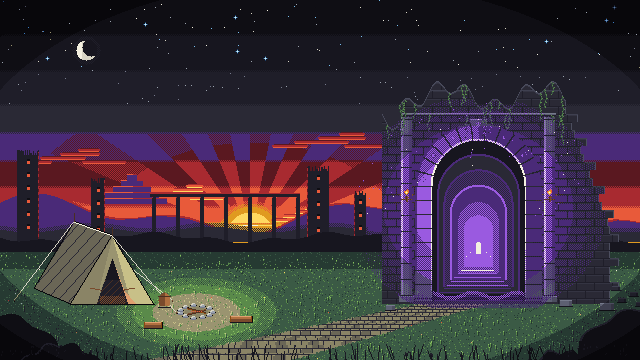
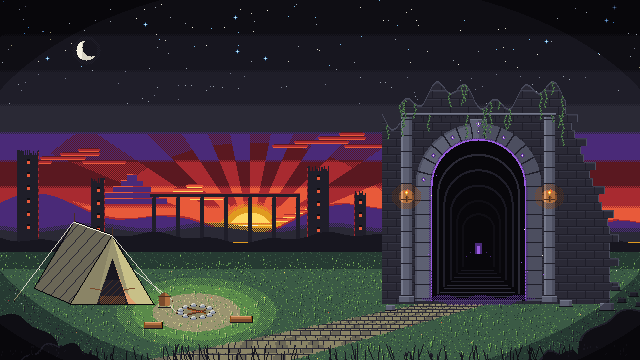
Art: menu gate back to the dark tunnel with a light purple glow
The author preferred the first gate: the tunnel stays dark with its faint doorway;
the arch's inner rim glows purple, the runes are brighter, a thin mist lies over the
threshold. The wall still breaks off right of the gate.

Claude-Session: https://claude.ai/code/session_01STxjqiQueofrzjBc15GUz1

Changed region(s): [[0.5938, 0.275, 0.9375, 0.8556]]

diff --git a/tools/art/make_menu_background.py b/tools/art/make_menu_background.py
@@ -7,10 +7,9 @@
 - the ruins gate on the right: a ruined wall with ivy that crumbles away right of the
   gate (the sunset shows behind it), pilasters with burning torches, an arch whose
   wedge stones carry purple runes (like the logo), and inside a tunnel going down:
-  receding inner arches and steps towards a bright purple doorway far below. A strong
-  purple light pours out of it: rays in the tunnel, the arches' edges lit, the stone,
-  the wall and the ground in front tinted in fading rings, mist over the threshold and
-  sparks rising around the gate;
+  receding inner arches and steps into darkness towards a faint purple doorway far
+  below; a light purple glow: the arch's inner rim lit, the runes bright, a thin mist
+  over the threshold and a few sparks;
 - the camp on the left: an A-frame canvas tent in perspective (front flaps tied back,
   side roof, ridge pole, guy ropes and pegs), a backpack, log seats, the fire pit with
   stones and logs and its warm light on the grass;
@@ -451,77 +450,46 @@ def torch(cv, x, y):
 
 # --- the purple light of the gate -------------------------------------------------------
 
-# Colours under purple light, strong and soft. Stone and brick keep their light / dark
-# order (mortar stays dark), grass and path take a violet cast.
-STRONG = {"m": "U", "T": "U", "s": "H", "e": "h", "F": "h", "f": "h", "5": "h", "g": "5", "k": "g",
-          "N": "h", "n": "5", "G": "H", "V": "H", "w": "H", "v": "h", "X": "H", "x": "U", "W": "U"}
-SOFT = {"m": "H", "T": "H", "s": "h", "e": "h", "F": "5", "f": "5", "5": "h", "g": "g",
-        "N": "h", "n": "5", "G": "h", "V": "H", "w": "h", "v": "5", "X": "h", "x": "H", "W": "H"}
-
-
 def purple_glow(cv):
+    """A light glow (the author preferred the dark tunnel): the arch's inner rim lit
+    purple, the runes brighter, a little mist over the threshold and a few sparks; the
+    tunnel stays dark with its faint doorway, the wall and the ground are not tinted."""
     rnd = random.Random(13)
-    cx, cy = ARCH_CX, ARCH_SPRING + 22
-    # 1. inside the tunnel: the light comes from the far end, so each receding arch
-    #    is brighter than the one in front of it; arch edges and step tops catch it
-    vx, vy = DOOR
-    fills = ("k", "5", "h", "h", "H", "H")
-    edges = ("h", "h", "H", "H", "U", "U")
-    for y in range(ARCH_SPRING - ARCH_R, ARCH_FLOOR + 1):
-        for x in range(ARCH_CX - ARCH_R, ARCH_CX + ARCH_R + 1):
-            if not in_arch(x, y, ARCH_R):
+    R1 = ARCH_R + ARCH_T
+    # the inner rim of the arch: a bright line, a softer one behind it
+    for y in range(ARCH_SPRING - R1, ARCH_FLOOR + 1):
+        for x in range(ARCH_CX - R1, ARCH_CX + R1 + 1):
+            if in_arch(x, y, ARCH_R) or not in_arch(x, y, R1):
                 continue
-            level = 0
-            for sc in TUNNEL:
-                r = ARCH_R * sc
-                if in_arch(x, y, r, vy + (ARCH_SPRING - vy) * sc, vx, vy + (ARCH_FLOOR - vy) * sc):
-                    level += 1
-            k = key_at(cv, x, y)
-            if k in ("o", "d"):
-                fill = fills[level]
-                if level in (2, 4) and (x + y) % 2 == 0:
-                    fill = fills[level - 1]          # a soft step between two levels
-                cv.put(x, y, fill)
-            else:
-                cv.put(x, y, edges[level])
-    # the far doorway: a tall arched opening, white at its heart
-    for y in range(vy - 12, vy + 4):
-        for x in range(vx - 4, vx + 5):
-            if in_arch(x, y, 4.5, vy - 7, vx, vy + 3):
-                cv.put(x, y, "U" if in_arch(x, y, 2.5, vy - 6, vx, vy + 3) else "H")
-    # 2. around the gate: the stone, the wall, the ground in front take the light,
-    #    strong close to the opening, in a checker further out, sparse at the edge
-    for y in range(40, H_):
-        for x in range(360, 620):
-            if in_arch(x, y, ARCH_R):
+            if not in_arch(x, y, ARCH_R + 1.5):
+                if in_arch(x, y, ARCH_R + 3) and (x + y) % 2 == 0 and key_at(cv, x, y) != "g":
+                    cv.put(x, y, "h")
                 continue
-            d = math.hypot((x - cx) / 128.0, (y - cy) / (112.0 if y < ARCH_FLOOR else 60.0))
-            k = key_at(cv, x, y)
-            if k is None or d >= 1.0:
-                continue
-            if d < 0.52:
-                new = STRONG.get(k)
-            elif d < 0.74:
-                new = (STRONG if (x + y) % 2 == 0 else SOFT).get(k)
-            elif d < 0.88:
-                new = SOFT.get(k) if (x + y) % 2 == 0 else None
-            else:
-                new = SOFT.get(k) if (x + 2 * y) % 4 == 0 else None
-            if new:
-                cv.put(x, y, new)
-    # 3. purple mist rolling out over the threshold, sparks rising around the gate
-    for x in range(ARCH_CX - 80, ARCH_CX + 81):
-        top = ARCH_FLOOR - 6 + 3 * math.sin(x / 7.0)
-        for y in range(int(top), ARCH_FLOOR + 8):
-            if (x + y) % 2 == 0 and abs(x - ARCH_CX) < 80 - (y - top) * 2:
-                cv.put(x, y, "H" if y < top + 3 and abs(x - ARCH_CX) < ARCH_R else "h")
-    for _ in range(70):
-        ang = rnd.random() * math.pi
-        r = rnd.uniform(ARCH_R + 4, ARCH_R + 70)
-        x, y = cx + math.cos(ang) * r * 1.1, ARCH_SPRING + 30 - math.sin(ang) * r
-        cv.put(x, y, rnd.choice("HHHU"))
-        if rnd.random() < 0.3:
-            cv.put(x, y + 1, "h")
+            cv.put(x, y, "H" if y < ARCH_FLOOR - 30 or (x + y) % 3 else "h")
+    # the runes in the wedge stones: a white heart and a purple halo
+    n_stones = 13
+    for i in range(2, n_stones, 2):
+        ang = i * math.pi / n_stones + math.pi / n_stones / 2
+        r = ARCH_R + ARCH_T / 2
+        x, y = ARCH_CX + math.cos(ang) * r, ARCH_SPRING - math.sin(ang) * r
+        cv.put(x, y, "U")
+        for dx, dy in ((-1, -1), (1, -1), (-1, 1), (1, 1)):
+            if key_at(cv, x + dx, y + dy) in ("s", "e", "T"):
+                cv.put(x + dx, y + dy, "h")
+    ky = ARCH_SPRING - R1 - 4
+    for x, y in ((0, 4), (0, 5)):
+        cv.put(ARCH_CX + x, ky + y, "U")
+    # a thin purple mist over the threshold, sparks drifting out of the tunnel
+    for x in range(ARCH_CX - ARCH_R - 10, ARCH_CX + ARCH_R + 11):
+        top = ARCH_FLOOR - 3 + 2 * math.sin(x / 6.0)
+        for y in range(int(top), ARCH_FLOOR + 5):
+            if (x + y) % 2 == 0 and abs(x - ARCH_CX) < ARCH_R + 10 - (y - top) * 3:
+                cv.put(x, y, "h")
+    for _ in range(18):
+        x = ARCH_CX + rnd.uniform(-ARCH_R - 20, ARCH_R + 20)
+        y = rnd.uniform(ARCH_SPRING - 20, ARCH_FLOOR - 4)
+        if not in_arch(int(x), int(y), ARCH_R - 4):
+            cv.put(x, y, rnd.choice("HHU"))
 
 
 # --- camp ------------------------------------------------------------------------------

diff --git a/docs/art-assets.md b/docs/art-assets.md
@@ -480,7 +480,7 @@ Generators `tools/art/make_title.py` (logo) and `tools/art/make_menu_background.
 | P | Asset | File | Size / frames | Anchor / use | Status |
 |---|---|---|---|---|---|
 | C | "RUINS" logo: blocky carved stone letters with a front face, cracks, moss, purple runes cut in and a purple glow | assets/art/ui/title_logo.png | 160x48, 1 | centre it at the top of the menu (e.g. top-left at (240, 24)) | generated |
-| C | Menu background (second take): striped retro sun setting behind an aqueduct, rays and clouds lit from below, far mountains with a stepped temple, ruined towers rimmed with sunset light, mist; on the right the ruins gate in a strong purple light: a ruined wall with ivy that crumbles away right of the gate (the sunset shows behind it), pilasters with torches, purple runes in the arch stones, a tunnel going down whose receding arches grow brighter towards a glowing doorway far below, the arch rim, stone, wall and ground in front lit purple in fading rings, mist over the threshold and sparks; on the left the camp: an A-frame canvas tent (flaps tied back, guy ropes), backpack, log seats, the fire pit with its warm light; cobbled path, dark foreground bushes and grass, a vignette; the upper middle stays calm for the logo | assets/art/ui/menu_background.png | 640x360, 1 | full screen; generator tools/art/make_menu_background.py (called by make_title.py) | generated |
+| C | Menu background (second take): striped retro sun setting behind an aqueduct, rays and clouds lit from below, far mountains with a stepped temple, ruined towers rimmed with sunset light, mist; on the right the ruins gate with a light purple glow: a ruined wall with ivy that crumbles away right of the gate (the sunset shows behind it), pilasters with torches, purple runes in the arch stones, a dark tunnel going down (receding arches, steps) towards a faint purple doorway far below, the arch's inner rim lit purple, bright runes, a thin mist over the threshold and a few sparks; on the left the camp: an A-frame canvas tent (flaps tied back, guy ropes), backpack, log seats, the fire pit with its warm light; cobbled path, dark foreground bushes and grass, a vignette; the upper middle stays calm for the logo | assets/art/ui/menu_background.png | 640x360, 1 | full screen; generator tools/art/make_menu_background.py (called by make_title.py) | generated |
 | C | Campfire flames for the background | assets/art/ui/menu_fire.png | 32x32, 3 (96x32), loop 8 fps | draw at (180, 284) on the background (the fire's base is at (196, 312)) | generated |
 
 Integrated in stage 42: warden_boulder(+_hit) in `actors/projectiles/stone.tscn`, drowned / tide_crab / ember_imp / magma_beetle frames in `actors/enemies/<id>.tres`, imp_fireball in `actors/projectiles/imp_fireball.tscn`, flooded_decals in `level/flooded_theme.tres`, shop_icons2 in `shop/shop.tres` (ShopData.goods_icons). Not used yet: floor_plates.png, merchant_sign.png.
